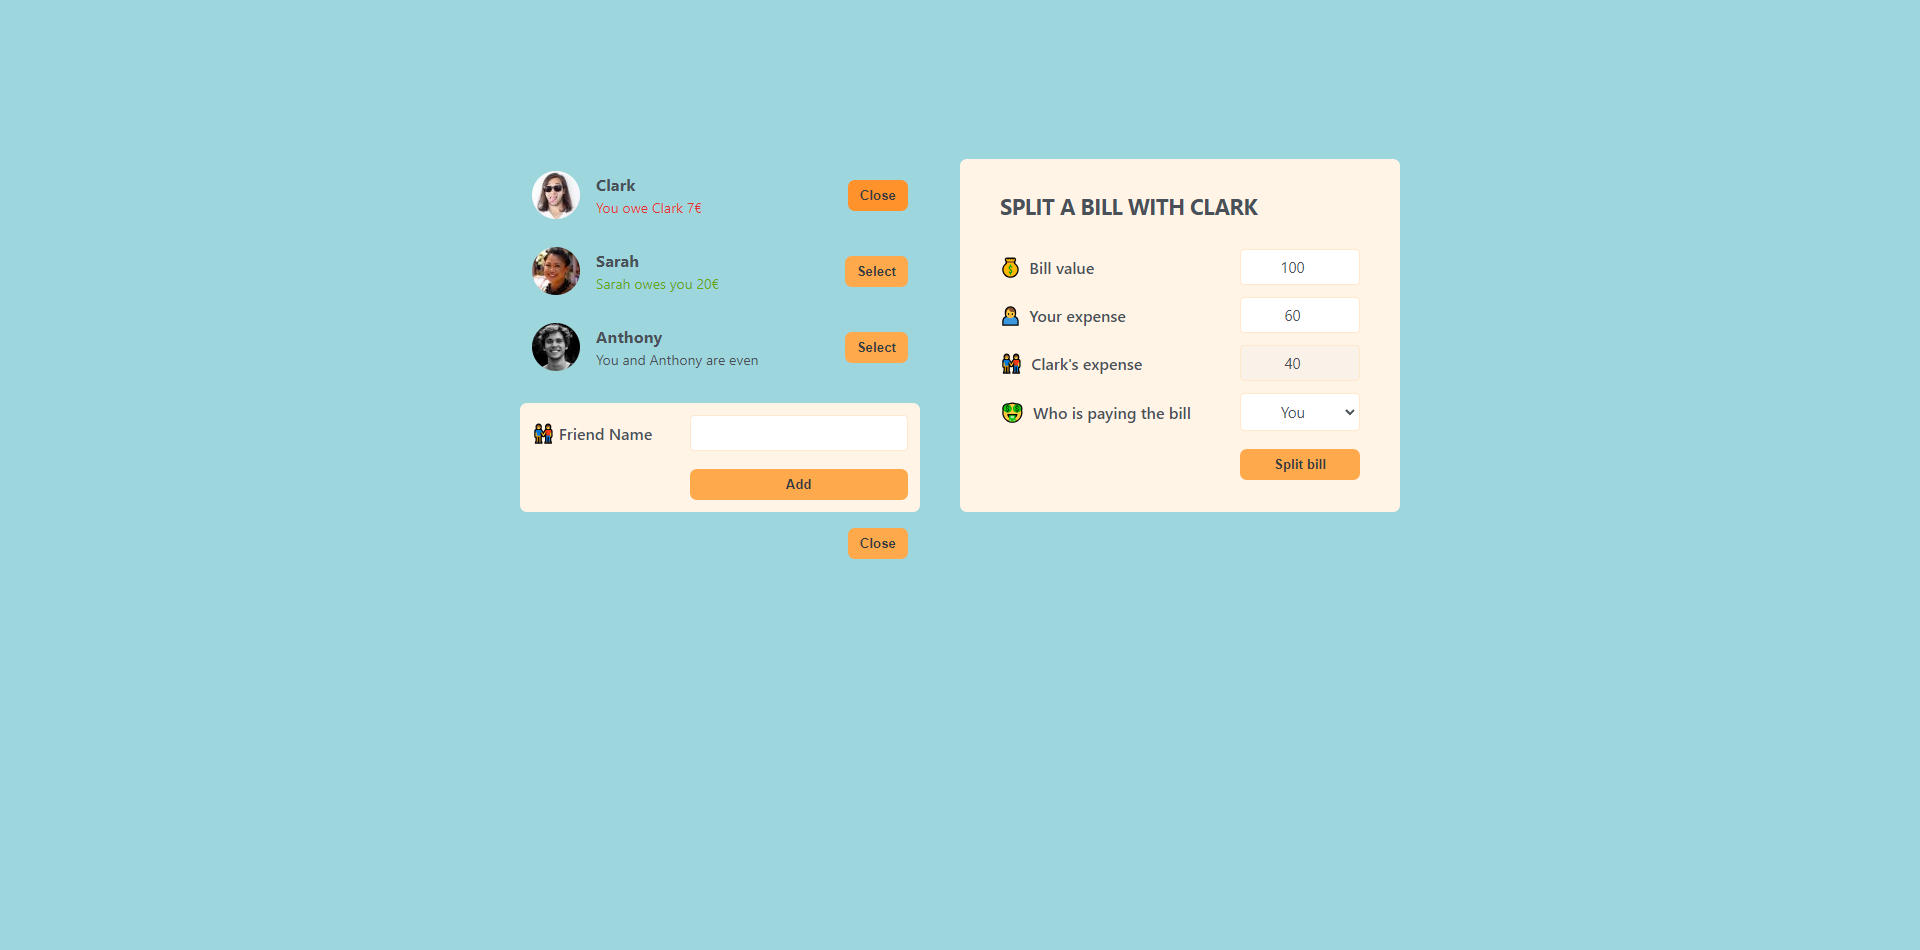
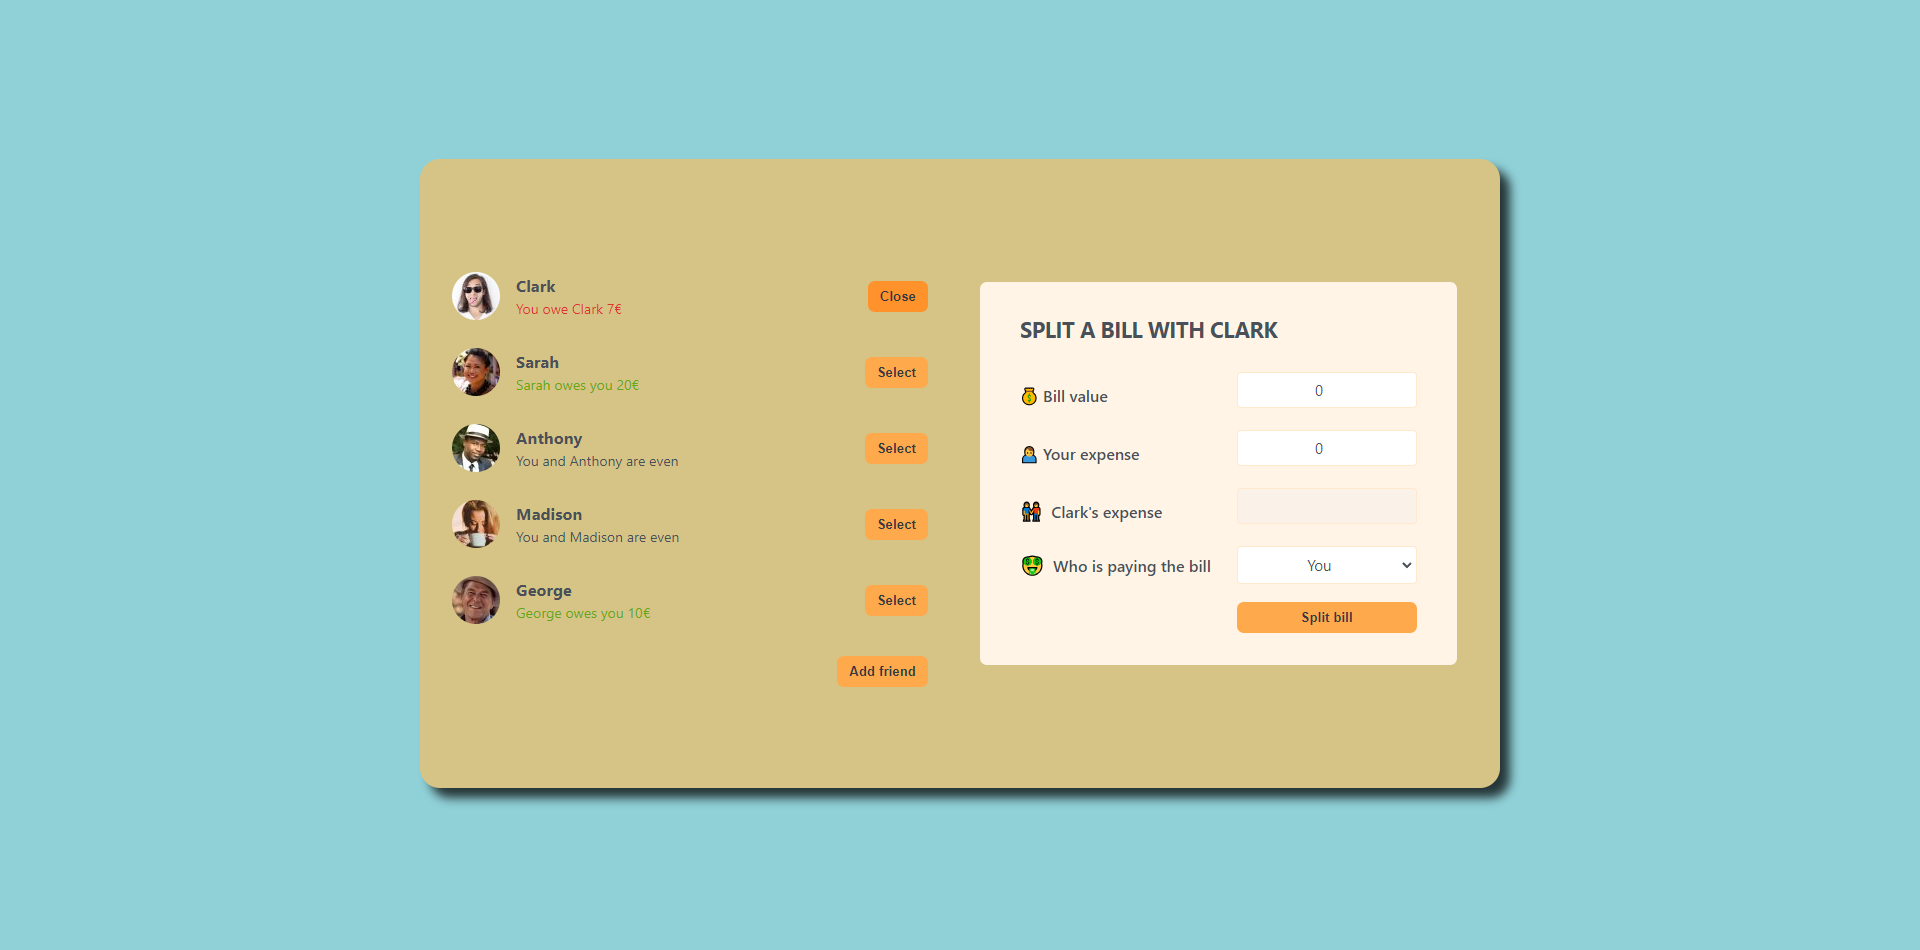
FAIR SHARE 1.4.0
Update Responsive
Update App.js
Update index.js
Update index.css
Update .gitignore
Update index.html
Update friendsData.json

diff --git a/src/components/App.js b/src/components/App.js
@@ -1,35 +1,35 @@
-import { useState } from "react";
-import FriendsData from "../data/friendsData.json";
+import { useState } from "react"
+import FriendsData from "../data/friendsData.json"
 
 export default function App() {
-  const [friends, setFriends] = useState(FriendsData.friends);
-  const [showAddFriend, setShowAddFriend] = useState(false);
-  const [selectedFriend, setSelectedFriend] = useState(friends[0]);
-  const [showMessage, setShowMessage] = useState(false);
-  const [splitSuccess, setSplitSuccess] = useState(false);
+  const [friends, setFriends] = useState(FriendsData.friends)
+  const [showAddFriend, setShowAddFriend] = useState(false)
+  const [selectedFriend, setSelectedFriend] = useState(friends[0])
+  const [showMessage, setShowMessage] = useState(false)
+  const [splitSuccess, setSplitSuccess] = useState(false)
 
   function handleShowAddFriend() {
-    setShowAddFriend((showAddFriend) => !showAddFriend);
+    setShowAddFriend((showAddFriend) => !showAddFriend)
   }
 
   function handleAddFriend(friend) {
-    setFriends((friends) => [...friends, friend]);
-    setShowAddFriend(false);
+    setFriends((friends) => [...friends, friend])
+    setShowAddFriend(false)
   }
 
   function handleSelection(friend) {
     setSelectedFriend((cur) => cur?.id === friend.id ? null : friend)
-    setShowAddFriend(false);
+    setShowAddFriend(false)
   }
 
   function handleSplitBill(value) {
-    setFriends((friends) => friends.map((friend) => friend.id === selectedFriend.id ? { ...friend, balance: friend.balance + value } : friend));
-    setSelectedFriend(null);
+    setFriends((friends) => friends.map((friend) => friend.id === selectedFriend.id ? { ...friend, balance: friend.balance + value } : friend))
+    setSelectedFriend(null)
   }
 
   return (
-    <div className='app'>
-      <div className='sidebar'>
+    <div className="app">
+      <div className="sidebar">
         <FriendList friends={friends} selectedFriend={selectedFriend} onSelection={handleSelection} />
         {showAddFriend && <FormAddFriend onAddFriend={handleAddFriend} />}
         <Button onClick={handleShowAddFriend}>{showAddFriend ? "Close" : "Add friend"}</Button>
@@ -47,7 +47,7 @@ function FriendList({ friends, selectedFriend, onSelection }) {
 }
 
 function Friend({ friend, selectedFriend, onSelection }) {
-  const isSelected = friend.id === selectedFriend?.id;
+  const isSelected = friend.id === selectedFriend?.id
   return (
     <li>
       <img src={friend.image} alt={friend.name} />
@@ -74,35 +74,35 @@ function Friend({ friend, selectedFriend, onSelection }) {
 
 function Button({ children, onClick, selected }) {
   return (
-    <button className={`button ${selected ? "button-selected" : ""}`} onClick={onClick} > {children}</button >
+    <button className={`button ${selected ? "button-selected" : ""}`} onClick={onClick}> {children}</button>
   )
 }
 
 function FormAddFriend({ onAddFriend }) {
-  const [name, setName] = useState("");
+  const [name, setName] = useState("")
 
   function handleSubmit(e) {
-    e.preventDefault();
+    e.preventDefault()
 
-    if (!name) return;
+    if (!name) return
 
-    const id = crypto.randomUUID();
-    const newFriendName = name.substring(0, 1).toUpperCase() + name.substring(1).toLowerCase();
+    const id = crypto.randomUUID()
+    const newFriendName = name.substring(0, 1).toUpperCase() + name.substring(1).toLowerCase()
     const newFriend = {
       id,
       name: newFriendName,
       image: `https://i.pravatar.cc/48?${id}`,
       balance: 0,
-    };
+    }
 
-    onAddFriend(newFriend);
+    onAddFriend(newFriend)
   }
 
   return (
     <form className="form-add-friend" onSubmit={handleSubmit}>
       <InputText value={name} setValue={setName}>👬Friend Name</InputText>
       <Button>Add</Button>
-    </form >
+    </form>
   )
 }
 
@@ -116,14 +116,14 @@ function InputText({ children, value, setValue }) {
 }
 
 function FormSplitBill({ selectedFriend, onSplitBill, setShowMessage, setSplitSuccess }) {
-  const [bill, setBill] = useState(0);
-  const [paidByUser, setPaidByUser] = useState(0);
-  const [whoIsPaying, setWhoIsPaying] = useState("user");
-  const [inputBillValidated, setInputBillValidated] = useState(true);
-  const paidByFriend = bill ? bill - paidByUser : "";
+  const [bill, setBill] = useState(0)
+  const [paidByUser, setPaidByUser] = useState(0)
+  const [whoIsPaying, setWhoIsPaying] = useState("user")
+  const [inputBillValidated, setInputBillValidated] = useState(true)
+  const paidByFriend = bill ? bill - paidByUser : ""
 
   function handleBill(billValue) {
-    if (billValue > 0) {
+    if (billValue> 0) {
       setBill(billValue)
       if (billValue < paidByUser)
         setPaidByUser(billValue)
@@ -131,20 +131,20 @@ function FormSplitBill({ selectedFriend, onSplitBill, setShowMessage, setSplitSu
   }
 
   function handleSubmit(e) {
-    e.preventDefault();
+    e.preventDefault()
 
     if (bill === 0) {
-      setInputBillValidated(false);
-      return;
-    };
+      setInputBillValidated(false)
+      return
+    }
 
     if ((bill === paidByUser && whoIsPaying === "user") || (bill === paidByFriend && whoIsPaying === "friend")) {
-      setShowMessage(true);
-      setSplitSuccess(false);
+      setShowMessage(true)
+      setSplitSuccess(false)
     } else {
-      onSplitBill(whoIsPaying === "user" ? paidByFriend : -paidByUser);
-      setShowMessage(true);
-      setSplitSuccess(true);
+      onSplitBill(whoIsPaying === "user" ? paidByFriend : -paidByUser)
+      setShowMessage(true)
+      setSplitSuccess(true)
     }
   }
 
@@ -167,7 +167,7 @@ function FormSplitBill({ selectedFriend, onSplitBill, setShowMessage, setSplitSu
       <InputReadOnly paidByFriend={paidByFriend}>👬 {selectedFriend.name}'s expense</InputReadOnly>
       <InputSelect selectedFriend={selectedFriend.name} whoIsPaying={whoIsPaying} setWhoIsPaying={setWhoIsPaying}>🤑 Who is paying the bill</InputSelect>
       <Button>Split bill</Button>
-    </form >
+    </form>
   )
 }
 

diff --git a/src/index.css b/src/index.css
@@ -3,6 +3,11 @@
   --color-light: #ffe8cc;
   --color-medium: #ffa94d;
   --color-dark: #ff922b;
+  --background-body: #90d1d8;
+  --background-app: #d6c486;
+  --red: #e03131;
+  --green: #66a80f;
+  --validation: #e03131;
 }
 
 * {
@@ -18,20 +23,24 @@ html {
 }
 
 body {
-  height: 100vh;
+  min-height: 100vh;
   color: #495057;
   display: flex;
   align-items: center;
   justify-content: center;
-  background-color: #90d1d8de;
+  background-color: var(--background-body);
 }
 
 .app {
   min-height: 66vh;
   display: grid;
-  grid-template-columns: 40rem 44rem;
+  grid-template-columns: 50rem 50rem;
   column-gap: 4rem;
-  align-items: start;
+  align-items: center;
+  padding: 2rem;
+  border-radius: 20px;
+  background-color: var(--background-app);
+  box-shadow: 10px 10px 10px 0px rgba(0, 0, 0, 0.75);
 }
 
 .button {
@@ -64,7 +73,6 @@ body {
   grid-template-columns: 4.8rem 1fr auto;
   align-items: center;
   column-gap: 1.6rem;
-
   padding: 1.2rem;
   border-radius: 7px;
   transition: 0.5s;
@@ -102,11 +110,11 @@ body {
 }
 
 .green {
-  color: #66a80f;
+  color: var(--green);
 }
 
 .red {
-  color: #e03131;
+  color: var(--red);
 }
 
 form {
@@ -127,7 +135,8 @@ form {
 .form-split-bill {
   grid-template-columns: 1fr 18rem;
   padding: 3.2rem 4rem;
-  align-items: start;
+  align-items: center;
+  justify-content: center;
   width: 50vh;
 }
 
@@ -144,7 +153,7 @@ form {
   justify-content: center;
   margin-top: 4px;
   font-size: 1.4rem;
-  color: #e03131;
+  color: var(--validation);
 }
 
 .validated {
@@ -243,9 +252,27 @@ form h2 {
   transform: scale(1.02);
 }
 
-@media (max-width: 1000px) {
+@media (max-width: 1200px) {
   .app {
     grid-template-columns: 1fr;
     row-gap: 4rem;
+  }
+}
+
+@media (max-width: 500px) {
+  body {
+    background-color: var(--background-app);
+  }
+
+  .app {
+    box-shadow: none;
+    grid-template-columns: minmax(300px, 500px);
+    padding: 2rem;
+  }
+
+  .form-split-bill {
+    grid-template-columns: 12rem 14rem;
+    width: auto;
+    padding: 2rem;
   }
 }

diff --git a/public/index.html b/public/index.html
@@ -10,20 +10,7 @@
       content="Web site created using create-react-app"
     />
     <link rel="apple-touch-icon" href="%PUBLIC_URL%/logo192.png" />
-    <!--
-      manifest.json provides metadata used when your web app is installed on a
-      user's mobile device or desktop. See https://developers.google.com/web/fundamentals/web-app-manifest/
-    -->
     <link rel="manifest" href="%PUBLIC_URL%/manifest.json" />
-    <!--
-      Notice the use of %PUBLIC_URL% in the tags above.
-      It will be replaced with the URL of the `public` folder during the build.
-      Only files inside the `public` folder can be referenced from the HTML.
-
-      Unlike "/favicon.ico" or "favicon.ico", "%PUBLIC_URL%/favicon.ico" will
-      work correctly both with client-side routing and a non-root public URL.
-      Learn how to configure a non-root public URL by running `npm run build`.
-    -->
     <title>Fair Share</title>
   </head>
   <body>

diff --git a/src/index.js b/src/index.js
@@ -1,11 +1,11 @@
-import './index.css';
-import React from 'react';
-import App from './components/App';
-import ReactDOM from 'react-dom/client';
+import "./index.css"
+import React from "react"
+import App from "./components/App"
+import ReactDOM from "react-dom/client"
 
-const root = ReactDOM.createRoot(document.getElementById('root'));
+const root = ReactDOM.createRoot(document.getElementById("root"))
 root.render(
   <React.StrictMode>
     <App />
   </React.StrictMode>
-);
+)

diff --git a/README.md b/README.md
@@ -10,7 +10,7 @@
 
 - **STACK :**
 
-  - **Fair Share** : `1.3.0`
+  - **Fair Share** : `1.4.0`
   - **React** : `18.3.1`
   - **React Dom** : `18.3.1`
 
